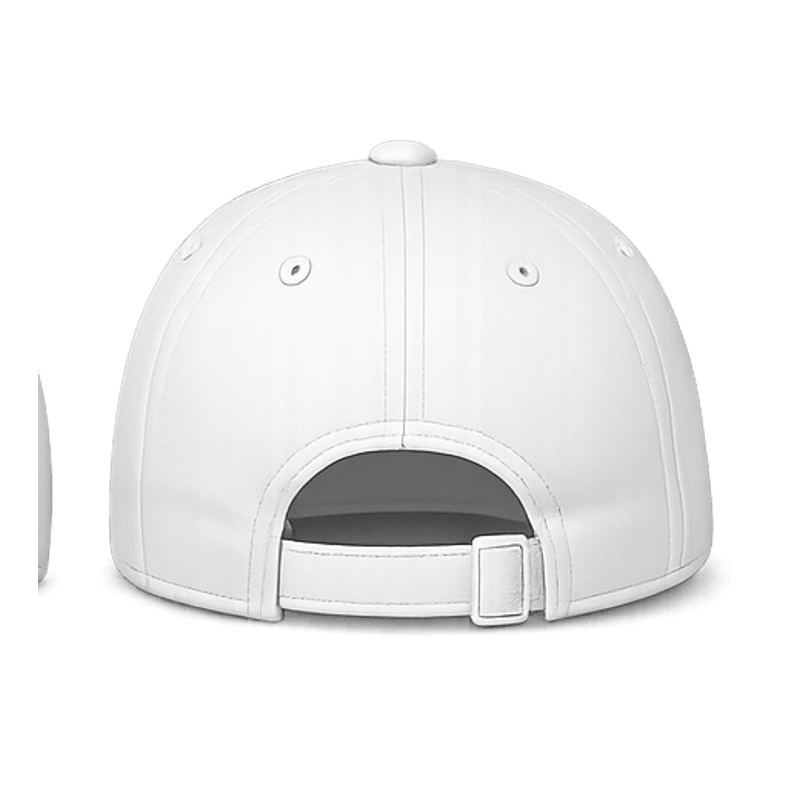
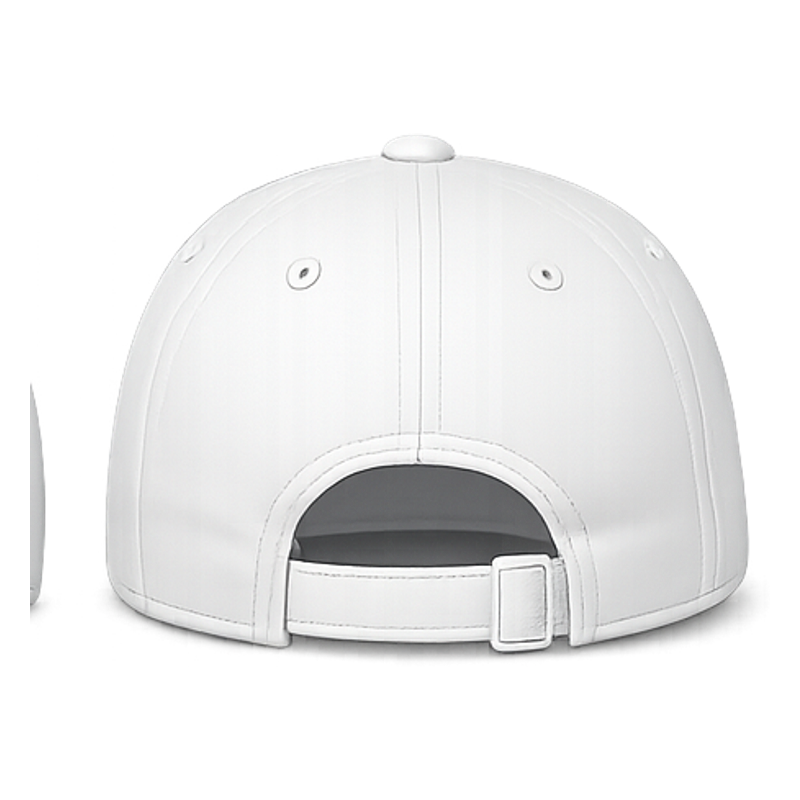
fix(slots): 착장 이미지 중앙 정렬 + 슬롯 표시 위치 재조정
모자 이미지가 캔버스 정중앙이 아니라 오른쪽으로 치우쳐(중심 56.7%) 있어
초록 점선이 왼쪽으로 어긋나 보였다.

- 6장 모두 여백 제거 후 800x800 캔버스 정중앙에 배치 (중심 49.7~49.9%)
- 각 이미지의 불투명 픽셀을 실측해 슬롯 17종 표시 좌표를 다시 계산

diff --git a/src/pages/AuctionDetail.tsx b/src/pages/AuctionDetail.tsx
@@ -629,23 +629,28 @@ const SLOT_IMAGES: Record<string, string> = {
  * 좌/우는 보는 사람 기준으로 배치한다.
  */
 const SLOT_IMAGE_MARKS: Record<string, [number, number, number, number]> = {
-  CAP_FRONT: [50, 42, 26, 15],
-  CAP_BRIM_TOP: [50, 68, 34, 9],
-  CAP_SIDE_L: [58, 40, 20, 14],
-  CAP_SIDE_R: [58, 40, 20, 14],
-  CAP_BACK: [50, 40, 24, 14],
-  COLLAR_L: [43, 12, 9, 6],
-  COLLAR_R: [57, 12, 9, 6],
-  SHOULDER_LINE_L: [30, 20, 16, 6],
-  SHOULDER_LINE_R: [70, 20, 16, 6],
-  CHEST_L: [35, 33, 16, 11],
-  CHEST_R: [65, 33, 16, 11],
-  SLEEVE_L: [17, 33, 12, 9],
-  SLEEVE_R: [83, 33, 12, 9],
-  BACK_SHOULDER_L: [36, 22, 15, 8],
-  BACK_SHOULDER_R: [64, 22, 15, 8],
-  PANTS_HIP_SIDE_FACING: [52, 30, 18, 11],
-  PANTS_THIGH_SIDE_FACING: [52, 52, 16, 13],
+  // 모자 정면: 크라운 앞판 가운데 (챙 이음선 위)
+  CAP_FRONT: [50, 45, 30, 15],
+  CAP_BRIM_TOP: [50, 71, 34, 8],
+  // 모자 측면: 옆 패널 (같은 측면 이미지를 좌/우 모두 사용)
+  CAP_SIDE_L: [55, 38, 22, 14],
+  CAP_SIDE_R: [55, 38, 22, 14],
+  CAP_BACK: [50, 41, 26, 14],
+  // 상의 앞면
+  COLLAR_L: [44, 11, 9, 5],
+  COLLAR_R: [56, 11, 9, 5],
+  SHOULDER_LINE_L: [31, 20, 15, 6],
+  SHOULDER_LINE_R: [69, 20, 15, 6],
+  CHEST_L: [38, 34, 15, 11],
+  CHEST_R: [62, 34, 15, 11],
+  SLEEVE_L: [17, 37, 11, 8],
+  SLEEVE_R: [83, 37, 11, 8],
+  // 상의 뒷면
+  BACK_SHOULDER_L: [37, 22, 14, 7],
+  BACK_SHOULDER_R: [63, 22, 14, 7],
+  // 하의 측면 (제품 폭이 좁아 표시도 작게)
+  PANTS_HIP_SIDE_FACING: [50, 26, 11, 9],
+  PANTS_THIGH_SIDE_FACING: [50, 46, 10, 11],
 };
 
 /**
